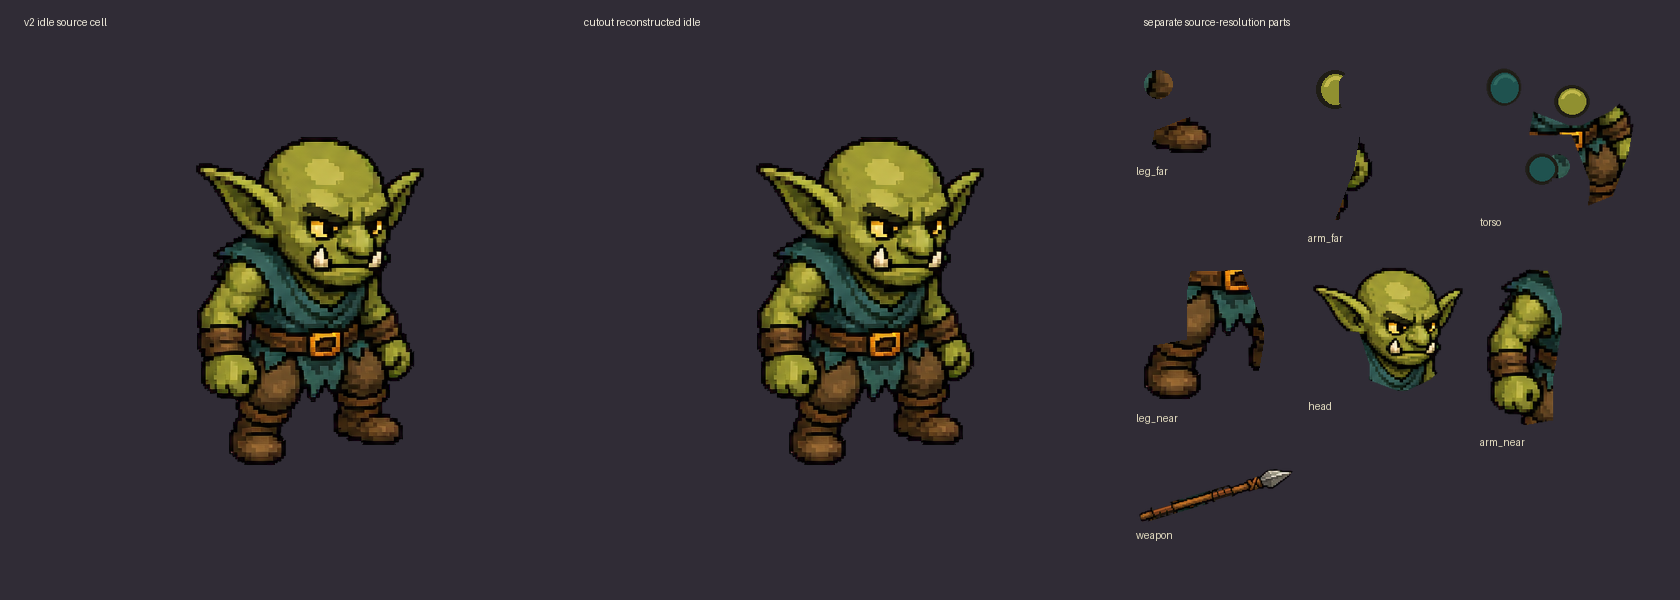
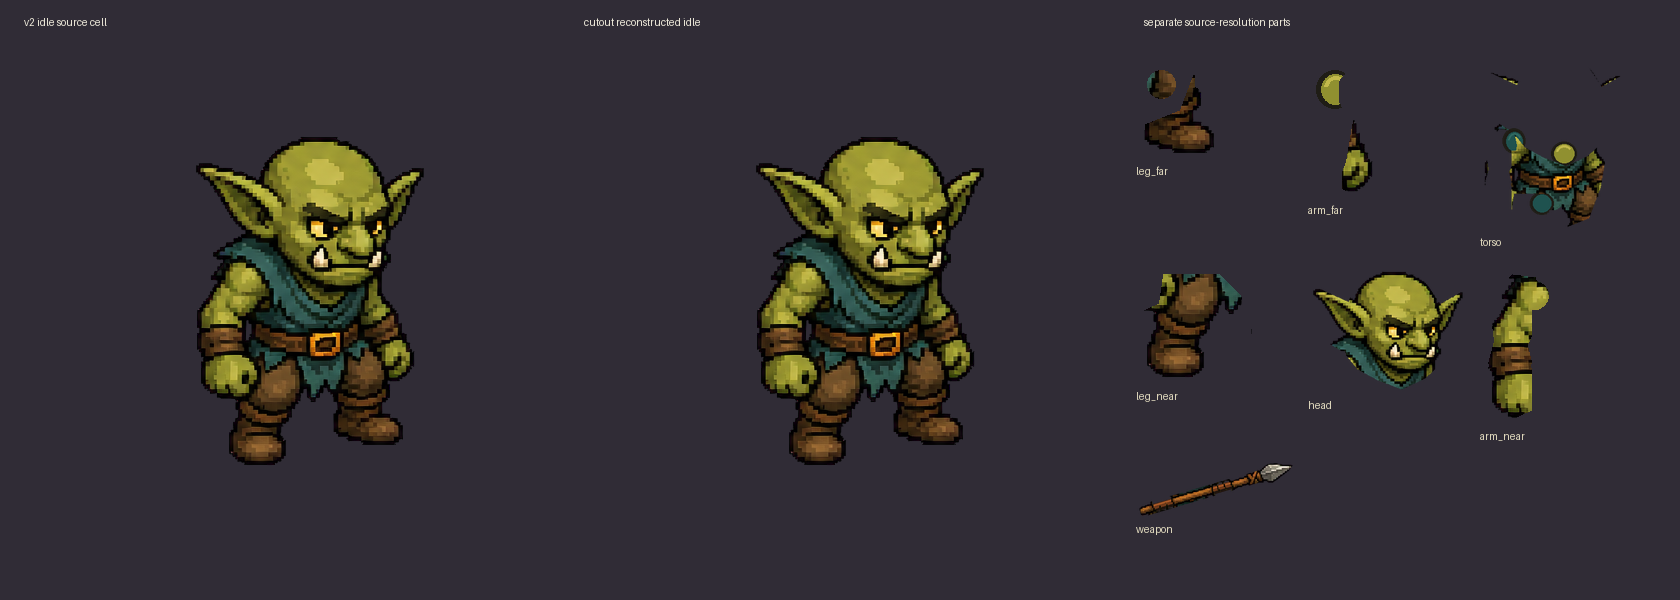
fix: preserve goblin joints under rotation (#243)

diff --git a/evidence/243-build-goblin-cutout.py b/evidence/243-build-goblin-cutout.py
@@ -14,7 +14,7 @@ import hashlib
 import json
 from pathlib import Path
 
-from PIL import Image, ImageChops, ImageDraw, ImageFilter, ImageFont
+from PIL import Image, ImageChops, ImageDraw, ImageFont
 
 
 EXPECTED_ALPHA_SIZE = (1536, 1024)
@@ -30,7 +30,8 @@ PARTS = [
         "parent": "torso",
         "z_index": 0,
         "pivot_source": (326, 332),
-        "polygon": [(286, 302), (352, 300), (390, 365), (385, 412), (304, 412), (290, 356)],
+        "polygon": [(310, 318), (352, 317), (375, 338), (390, 374), (385, 412),
+                    (304, 412), (296, 374), (300, 340)],
         "motion": "Independent far-leg step and crouch during windup and recovery.",
     },
     {
@@ -38,7 +39,12 @@ PARTS = [
         "parent": "torso",
         "z_index": 1,
         "pivot_source": (352, 236),
-        "polygon": [(326, 205), (375, 207), (403, 276), (397, 349), (348, 357), (330, 304)],
+        "polygon": [
+            [(342, 211), (370, 215), (386, 241), (397, 276), (393, 306),
+             (382, 319), (358, 318), (350, 299), (344, 272), (335, 252)],
+            [(360, 302), (389, 302), (401, 318), (394, 338), (371, 342),
+             (360, 334)],
+        ],
         "motion": "Independent far-arm counterbalance and two-handed weapon support.",
     },
     {
@@ -55,7 +61,8 @@ PARTS = [
         "parent": "torso",
         "z_index": 3,
         "pivot_source": (265, 333),
-        "polygon": [(199, 301), (294, 300), (316, 356), (304, 425), (197, 429), (190, 365)],
+        "polygon": [(221, 318), (277, 318), (298, 339), (309, 374), (304, 414),
+                    (283, 429), (207, 429), (191, 404), (195, 365), (207, 337)],
         "motion": "Independent near-leg step and crouch preserve the readable planted stance.",
     },
     {
@@ -73,8 +80,13 @@ PARTS = [
         "parent": "torso",
         "z_index": 5,
         "pivot_source": (219, 232),
-        "polygon": [(184, 194), (233, 199), (249, 248), (239, 305), (239, 353), (183, 363),
-                    (169, 310), (173, 257)],
+        "polygon": [
+            [(197, 211), (220, 214), (225, 238), (220, 263), (212, 282),
+             (216, 299), (210, 313), (184, 315), (173, 300), (179, 278),
+             (176, 253), (184, 226)],
+            [(176, 299), (214, 299), (220, 319), (216, 347), (190, 359),
+             (171, 341), (166, 318)],
+        ],
         "motion": "Primary strike arm rotates around the shoulder through windup, hit, follow-through, and return.",
     },
 ]
@@ -96,9 +108,12 @@ def committed_sha256(path: Path) -> str:
     return hashlib.sha256(data).hexdigest()
 
 
-def polygon_mask(points: list[tuple[int, int]], size: tuple[int, int] = (512, 512)) -> Image.Image:
+def polygon_mask(points: list, size: tuple[int, int] = (512, 512)) -> Image.Image:
     mask = Image.new("L", size, 0)
-    ImageDraw.Draw(mask).polygon(points, fill=255)
+    draw = ImageDraw.Draw(mask)
+    polygons = [points] if isinstance(points[0][0], int) else points
+    for polygon in polygons:
+        draw.polygon(polygon, fill=255)
     return mask
 
 
@@ -135,12 +150,11 @@ def add_hidden_joint_fill(
     skin_light = (194, 185, 75, 255)
 
     if part_name == "torso":
-        # Tunic under the near shoulder, neck under the head, and cloth over the
-        # near hip.  These zones are absent from the flattened source because
-        # foreground parts cover them.
-        draw.ellipse((200, 212, 241, 256), fill=outline)
-        draw.ellipse((205, 217, 238, 253), fill=teal)
-        draw.arc((208, 219, 237, 249), 190, 330, fill=teal_light, width=4)
+        # Tunic cap under the near shoulder.  The torso owns the adjacent scarf
+        # and skirt pixels; only this rounded overlap follows the shoulder joint.
+        draw.ellipse((202, 210, 239, 251), fill=outline)
+        draw.ellipse((208, 216, 235, 247), fill=teal)
+        draw.arc((211, 218, 233, 245), 190, 330, fill=teal_light, width=3)
         draw.ellipse((282, 232, 324, 271), fill=outline)
         draw.ellipse((287, 236, 320, 267), fill=skin)
         draw.arc((290, 238, 317, 263), 190, 325, fill=skin_light, width=4)
@@ -204,6 +218,43 @@ def compose(parts: list[dict], out_dir: Path, include_weapon: bool = False) -> I
     return canvas
 
 
+def compose_with_rotation(parts: list[dict], out_dir: Path, part_name: str, angle: float) -> Image.Image:
+    """Compose one deterministic joint probe around the declared source pivot."""
+    canvas = Image.new("RGBA", (512, 512), (0, 0, 0, 0))
+    for part in sorted(parts, key=lambda item: item["z_index"]):
+        if part["name"] == "weapon":
+            continue
+        image = Image.open(out_dir / part["file"]).convert("RGBA")
+        full = Image.new("RGBA", (512, 512), (0, 0, 0, 0))
+        full.alpha_composite(image, tuple(part["rest_position"]))
+        if part["name"] == part_name:
+            origin_x, origin_y = part["rest_position"]
+            pivot = (origin_x + part["pivot"][0], origin_y + part["pivot"][1])
+            full = full.rotate(angle, resample=Image.Resampling.NEAREST, center=pivot)
+        canvas.alpha_composite(full)
+    return canvas
+
+
+def joint_check_sheet(parts: list[dict], out_dir: Path) -> Image.Image:
+    """Render the minimum review angles that previously exposed bad cut lines."""
+    probes = [
+        ("arm_near", -15), ("arm_near", -10), ("arm_near", 15),
+        ("arm_far", 10), ("leg_near", -10), ("leg_near", 10),
+    ]
+    background = (48, 44, 54, 255)
+    panel_width, panel_height, header = 512, 556, 44
+    sheet = Image.new("RGBA", (panel_width * 3, panel_height * 2), background)
+    draw = ImageDraw.Draw(sheet)
+    font = ImageFont.load_default()
+    for index, (part_name, angle) in enumerate(probes):
+        x = (index % 3) * panel_width
+        y = (index // 3) * panel_height
+        draw.text((x + 18, y + 16), f"{part_name} {angle:+d} deg", font=font,
+                  fill=(240, 236, 220, 255))
+        sheet.alpha_composite(compose_with_rotation(parts, out_dir, part_name, angle), (x, y + header))
+    return sheet
+
+
 def contact_sheet(reference: Image.Image, reconstructed: Image.Image, parts: list[dict], out_dir: Path) -> Image.Image:
     background = (48, 44, 54, 255)
     panel_width = 560
@@ -244,6 +295,7 @@ def main() -> None:
     parser.add_argument("--alpha-sheet", required=True, type=Path)
     parser.add_argument("--out-dir", required=True, type=Path)
     parser.add_argument("--contact-sheet", required=True, type=Path)
+    parser.add_argument("--joint-check", required=True, type=Path)
     parser.add_argument("--manifest", required=True, type=Path)
     args = parser.parse_args()
 
@@ -254,14 +306,16 @@ def main() -> None:
     combat = sheet.crop(COMBAT_BOX)
     args.out_dir.mkdir(parents=True, exist_ok=True)
     args.contact_sheet.parent.mkdir(parents=True, exist_ok=True)
+    args.joint_check.parent.mkdir(parents=True, exist_ok=True)
     args.manifest.parent.mkdir(parents=True, exist_ok=True)
 
     built_parts: list[dict] = []
     coverage = Image.new("L", idle.size, 0)
-    authored_masks = {
-        spec["name"]: polygon_mask(spec["polygon"]).filter(ImageFilter.MaxFilter(17))
-        for spec in PARTS
-    }
+    # Polygons follow semantic cut lines.  Expanding every polygon used to let
+    # foreground limbs steal adjacent belt/scarf/tunic pixels; those pixels then
+    # rotated with the limb and opened long holes.  Joint overlap is added below
+    # explicitly and cannot change ownership away from the torso.
+    authored_masks = {spec["name"]: polygon_mask(spec["polygon"]) for spec in PARTS}
     assigned = Image.new("L", idle.size, 0)
     part_masks: dict[str, Image.Image] = {}
     for spec in sorted(PARTS, key=lambda item: item["z_index"], reverse=True):
@@ -281,6 +335,19 @@ def main() -> None:
         px, py = spec["pivot_source"]
         joint_draw.ellipse((px - 14, py - 14, px + 14, py + 14), fill=255)
         mask = ImageChops.lighter(mask, ImageChops.multiply(joint, opaque))
+        # Keep the flattened tunic/thigh pixels next to the hands on the torso.
+        # Their colours touch the limb silhouettes, so polygon overlap alone is
+        # insufficient: the ownership boundary must follow the anatomical edge.
+        if spec["name"] == "arm_near":
+            pixels = mask.load()
+            for y in range(247, 512):
+                for x in range(217, 512):
+                    pixels[x, y] = 0
+        elif spec["name"] == "arm_far":
+            pixels = mask.load()
+            for y in range(320, 512):
+                for x in range(0, 360):
+                    pixels[x, y] = 0
         coverage = ImageChops.lighter(coverage, mask)
         full = source_pixels(idle, mask)
         higher = Image.new("L", idle.size, 0)
@@ -360,6 +427,7 @@ def main() -> None:
         diff = sum(a != b for a, b in zip(reconstructed.tobytes(), source_rgba.tobytes()))
         raise RuntimeError(f"rest reconstruction differs from source in {diff} channel bytes")
     contact_sheet(source_rgba, reconstructed, built_parts, args.out_dir).save(args.contact_sheet, optimize=True)
+    joint_check_sheet(built_parts, args.out_dir).save(args.joint_check, optimize=True)
 
     manifest = {
         "builder": {
@@ -371,7 +439,8 @@ def main() -> None:
         "rest_reconstruction": "byte-identical RGBA to idle source cell",
         "outputs": [
             {"path": path.as_posix(), "committed_sha256": committed_sha256(path)}
-            for path in sorted([*args.out_dir.glob("goblin_cutout_*_v1.png"), metadata_path, args.contact_sheet])
+            for path in sorted([*args.out_dir.glob("goblin_cutout_*_v1.png"), metadata_path,
+                                args.contact_sheet, args.joint_check])
         ],
     }
     args.manifest.write_text(json.dumps(manifest, indent=2, ensure_ascii=False) + "\n", encoding="utf-8")

diff --git a/docs/art/goblin-cutout-v1-provenance.md b/docs/art/goblin-cutout-v1-provenance.md
@@ -68,14 +68,15 @@ Exact original prompt:
    from the top-left `idle` cell; the separate spear comes from the top-right
    `combat` cell. Parts remain at source resolution. The runtime target remains
    116×168 inside the unchanged 272×192/170% presentation boundary.
-3. Authored polygons partition the idle cell by semantic part. Masks are
-   expanded by eight pixels before z-ordered exclusivity, preserving edge
-   antialiasing. Fully opaque source pixels are duplicated in a 14 px radius
-   around each pivot so small rotations have real overlap instead of seams.
+3. Authored polygons partition the idle cell by semantic part. Limb masks use
+   anatomical ownership boundaries rather than global dilation: the belt,
+   buckle, skirt, and scarf remain on `torso` instead of rotating with a limb.
+   Fully opaque source pixels are duplicated in a 14 px radius around each
+   pivot so small rotations have real overlap instead of seams.
 4. Occluded material that does not exist in the flattened source is manually
    reconstructed only where a higher rest-pose layer is fully opaque: teal
-   cloth behind the near shoulder and hip, a skin neck under the head, and a
-   rounded far-shoulder cap under the torso. Colors are the measured v2 palette:
+   a rounded cloth cap behind the near shoulder and hip, a skin neck under the
+   head, and a rounded far-shoulder cap under the torso. Colors are the measured v2 palette:
    skin `(144,144,48)` with `(194,185,75)` highlight, dark teal cloth, and the
    existing charcoal outline. These pixels are hidden in idle and become
    visible only when a joint rotates.
@@ -84,7 +85,8 @@ Exact original prompt:
    the visible v2 shaft; the visible wood, binding, outline, and blade pixels
    are then pasted back from the source. No new weapon design was introduced.
 6. Each part is cropped with eight transparent pixels of padding. The builder
-   emits the PNGs, the JSON contract, the contact sheet, and a SHA-256 manifest.
+   emits the PNGs, the JSON contract, the contact sheet, a non-zero-angle joint
+   check sheet, and a SHA-256 manifest.
    No paint-over or palette replacement beyond the explicitly named occlusion
    fills and shaft bridge was applied.
 
@@ -126,12 +128,15 @@ python evidence\243-build-goblin-cutout.py `
   --alpha-sheet .artifacts\243\source-alpha.png `
   --out-dir src\DungeonFortress.Game\assets\generated\goblins\cutout_v1 `
   --contact-sheet evidence\243-goblin-cutout-contact-sheet.png `
+  --joint-check evidence\243-goblin-cutout-joint-rotation-check.png `
   --manifest evidence\243-goblin-cutout-manifest.json
 ```
 
 The builder fails unless the alpha sheet is 1536×1024 and unless compositing
 all rest-visible parts reproduces the complete 512×512 idle cell byte-for-byte.
-The recorded successful run reports zero missed visible pixels and
+The recorded successful run assigns every visible source pixel to a part (the
+manifest records pixels that fall outside the limb polygons and are therefore
+assigned to `torso`) and reports
 `rest reconstruction: byte-identical RGBA to idle source cell`. Output hashes
 are in `evidence/243-goblin-cutout-manifest.json`.
 
@@ -140,6 +145,13 @@ idle body, and the seven separate source-resolution parts including the spear.
 It was reviewed at original size: source and reconstruction preserve the same
 silhouette, palette, three-quarter facing, proportions, and baseline. This is
 the required internal art check; independent PR review remains separate.
+
+`evidence/243-goblin-cutout-joint-rotation-check.png` is the regression image
+for the first review finding. It renders `arm_near` at -15°, -10°, and +15°,
+`arm_far` at +10°, and `leg_near` at -10° and +10° around the JSON pivots. The
+belt, buckle, skirt, and scarf remain on the torso in every panel; the detached
+torso-coloured shards and transparent joint holes from the initial cut are no
+longer present.
 
 There is no mutant: Issue #243 changes neither simulation, determinism, nor a
 runtime contract. Verification is the byte-identical rest reconstruction,
